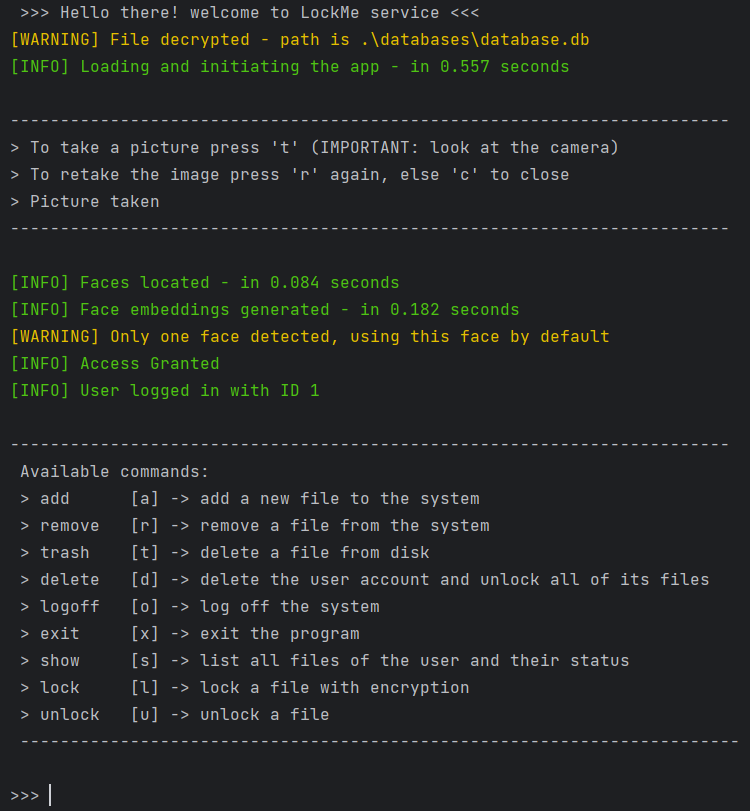
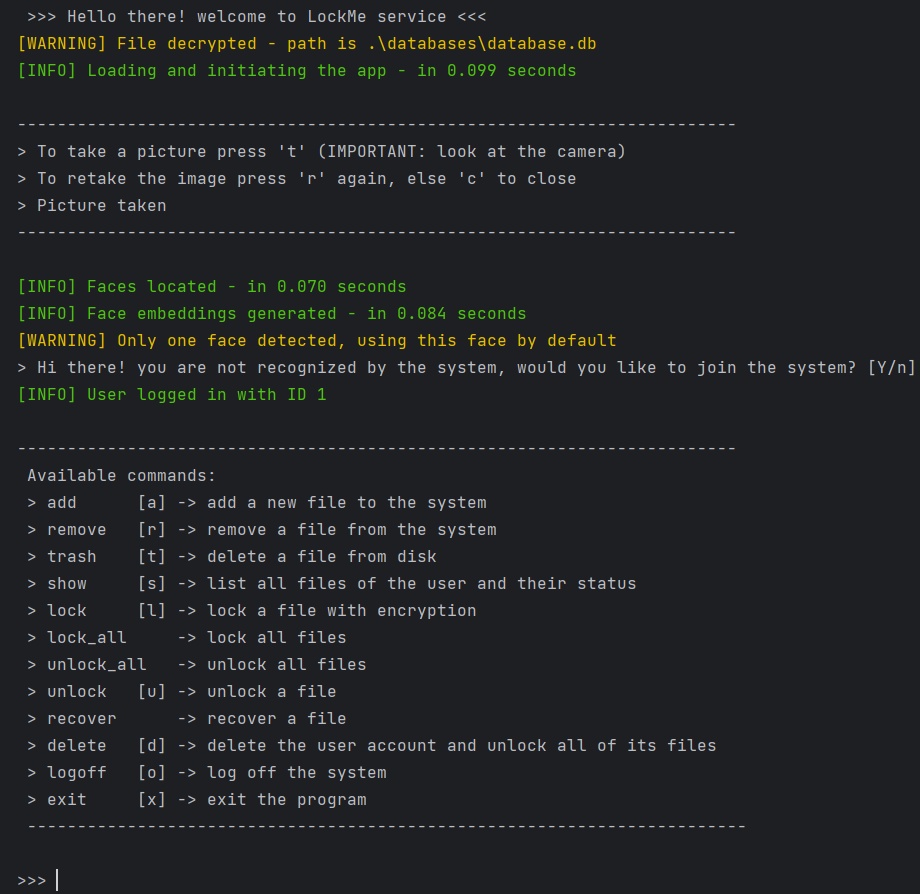
update 21 fixes

diff --git a/camera_runner.py b/camera_runner.py
@@ -45,7 +45,7 @@ class Camera:
                     if key == ord(KeyMap.close_cam):    # close the camera
                         Logger(msg.Info.pic_taken, level=Logger.message).log()
                         return
-                    elif key == ord(KeyMap.take_pic):   # retake picture
+                    elif key == ord(KeyMap.retake_pic):   # retake picture
                         Logger(msg.Info.take_pic, level=Logger.message).log()
                         break
 

diff --git a/model/config.py b/model/config.py
@@ -1,6 +1,7 @@
 """
 Configurations for training and loading the model
 """
+import os
 
 EPOCHS = 50
 BATCH_SIZE = 128
@@ -8,4 +9,4 @@ LEARNING_RATE = 0.0006
 INPUT_SHAPE = (1, 100, 100)
 INPUT_SIZE = (100, 100)
 DATASET_PATH = r'C:\LockMe_DATA\my_ATNT_DS'
-MODEL_PATH = r'C:\Users\urikh\OneDrive\coding\projects\my\LockMe\model\BCE1_C_BN-1_50_lr0006-vec512.pth'
+MODEL_PATH = os.path.join(os.getcwd(), r'model\BCE1_C_BN-1_50_lr0006-vec512.pth')

diff --git a/model/train.py b/model/train.py
@@ -14,6 +14,10 @@ import model.config as config
 
 
 def train(model, loader: DataLoader, optimizer: optim, criterion, epochs=10, ckpt=10):
+    """
+    Train the model
+    TODO: Rewrite with validation testing, accuracy testing and graphs
+    """
     device = torch.device('cuda:0' if torch.cuda.is_available() else 'cpu')
     cntr = []
     loss_hist = []

diff --git a/model/model.py b/model/model.py
@@ -12,7 +12,7 @@ from PIL import Image
 import cv2 as cv
 import numpy as np
 
-from dataset import ModelDataset
+from model.dataset import ModelDataset
 import model.config as config
 
 
